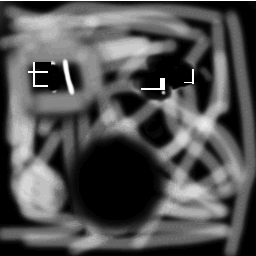
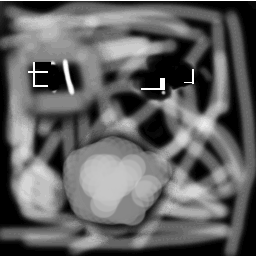
tree position improvement

Changed region(s): [[0.2188, 0.5312, 0.6875, 0.9062]]

diff --git a/ParagliderSim/ParagliderSim/Terrain.cs b/ParagliderSim/ParagliderSim/Terrain.cs
@@ -403,9 +403,10 @@ namespace ParagliderSim
 
                             for (int currDetail = 0; currDetail < treeDensity; currDetail++)
                             {
-                                float rand1 = (float)random.Next(1000) / 1000.0f;
-                                float rand2 = (float)random.Next(1000) / 1000.0f;
-                                Vector3 treePos = new Vector3(((float)x - rand1)*terrainScale, 0, (-(float)y - rand2)*terrainScale);
+                                float rand1 = (float)random.Next(1000) / 1500.0f;
+                                float rand2 = (float)random.Next(1000) / 1500.0f;
+
+                                Vector3 treePos = new Vector3(((float)x - rand1) * terrainScale, 0, (-(float)y - rand2) * terrainScale);
                                 treePos.Y = heightData[x, y]*terrainScale;
                                 treeList.Add(treePos);
                             }
@@ -501,67 +502,6 @@ namespace ParagliderSim
             }
             device.BlendState = BlendState.Opaque;
         }
-
-        #endregion
-
-        #region Grass
-
-        private List<Vector3> GenerateGrassPositions(Texture2D grassMap, VertexMultitextured[] terrainVertices)
-        {
-            Color[] grassMapColors = new Color[grassMap.Width * grassMap.Height];
-            grassMap.GetData(grassMapColors);
-
-            int[,] noiseData = new int[grassMap.Width, grassMap.Height];
-            for (int x = 0; x < grassMap.Width; x++)
-                for (int y = 0; y < grassMap.Height; y++)
-                    noiseData[x, y] = grassMapColors[y + x * grassMap.Height].R;
-
-
-            //List<Vector3> treeList = new List<Vector3>(); 
-            Random random = new Random();
-
-            for (int x = 0; x < terrainWidth; x++)
-            {
-                for (int y = 0; y < terrainHeight; y++)
-                {
-                    float terrHeight = heightData[x, y];
-                    if ((terrHeight > 7) && (terrHeight < 250))
-                    {
-                        float flatness = Vector3.Dot(terrainVertices[x + y * (int)terrainWidth].Normal, new Vector3(0, 1, 0));
-                        float minFlatness = (float)Math.Cos(MathHelper.ToRadians(10));
-                        if (flatness > minFlatness)
-                        {
-                            float relx = (float)x / (float)terrainWidth;
-                            float rely = (float)y / (float)terrainHeight;
-
-                            float noiseValueAtCurrentPosition = noiseData[(int)(relx * treeMap.Width), (int)(rely * grassMap.Height)];
-                            float grassDensity;
-                            if (noiseValueAtCurrentPosition > 200)
-                                grassDensity = 8;
-                            else if (noiseValueAtCurrentPosition > 150)
-                                grassDensity = 4;
-                            else if (noiseValueAtCurrentPosition > 100)
-                                grassDensity = 1;
-                            else
-                                grassDensity = 0;
-
-                            for (int currDetail = 0; currDetail < grassDensity; currDetail++)
-                            {
-                                float rand1 = (float)random.Next(1000) / 1000.0f;
-                                float rand2 = (float)random.Next(1000) / 1000.0f;
-                                Vector3 grassPos = new Vector3(((float)x - rand1) * terrainScale, 0, (-(float)y - rand2) * terrainScale);
-                                grassPos.Y = heightData[x, y] * terrainScale;
-                                grassList.Add(grassPos);
-                            }
-                        }
-                    }
-                }
-            }
-
-
-            return treeList;
-        }
-
 
         #endregion
 
